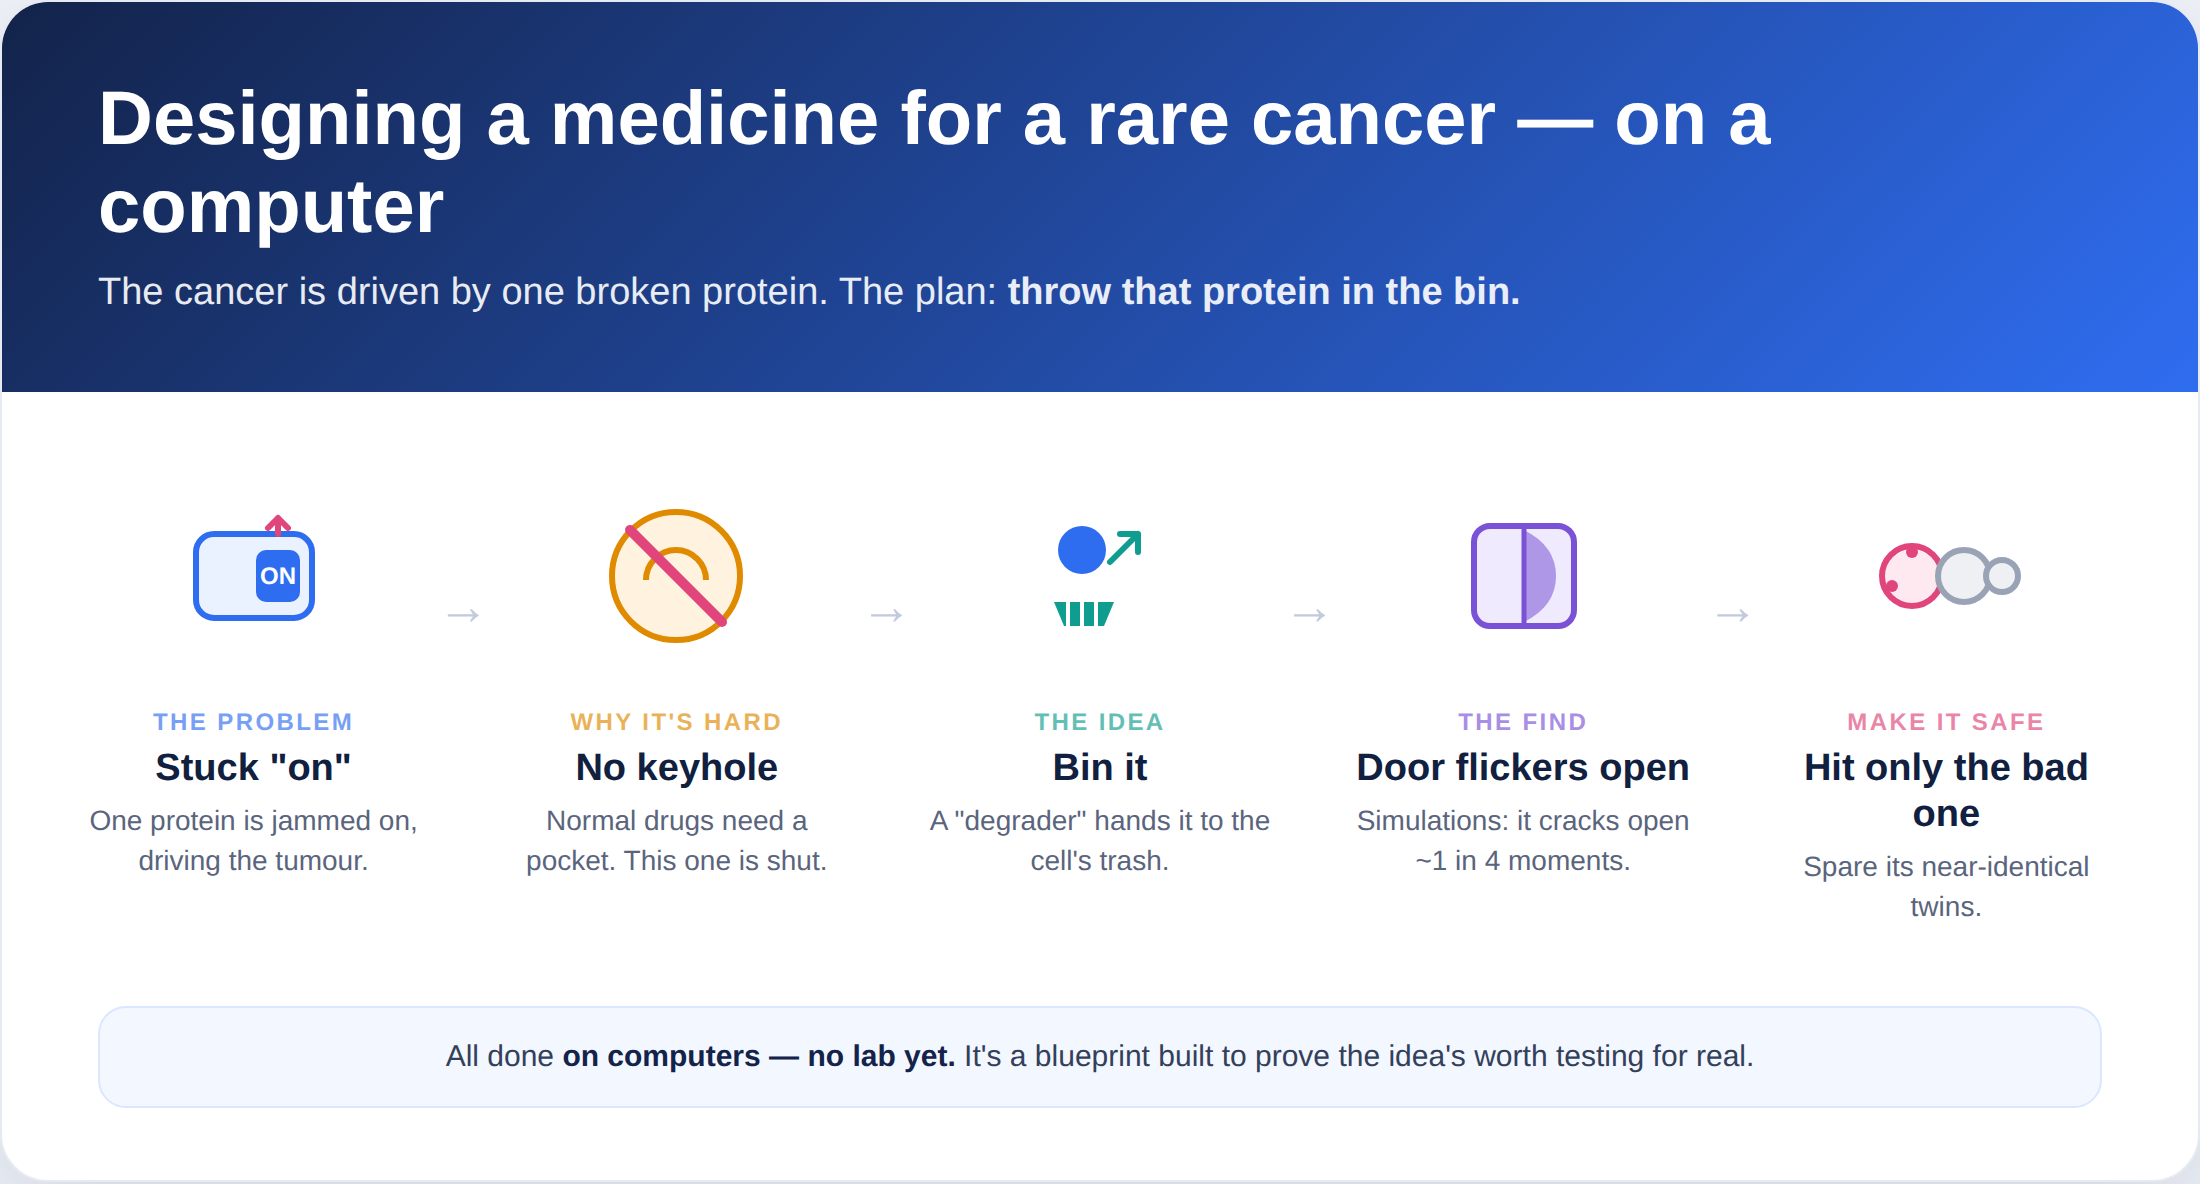
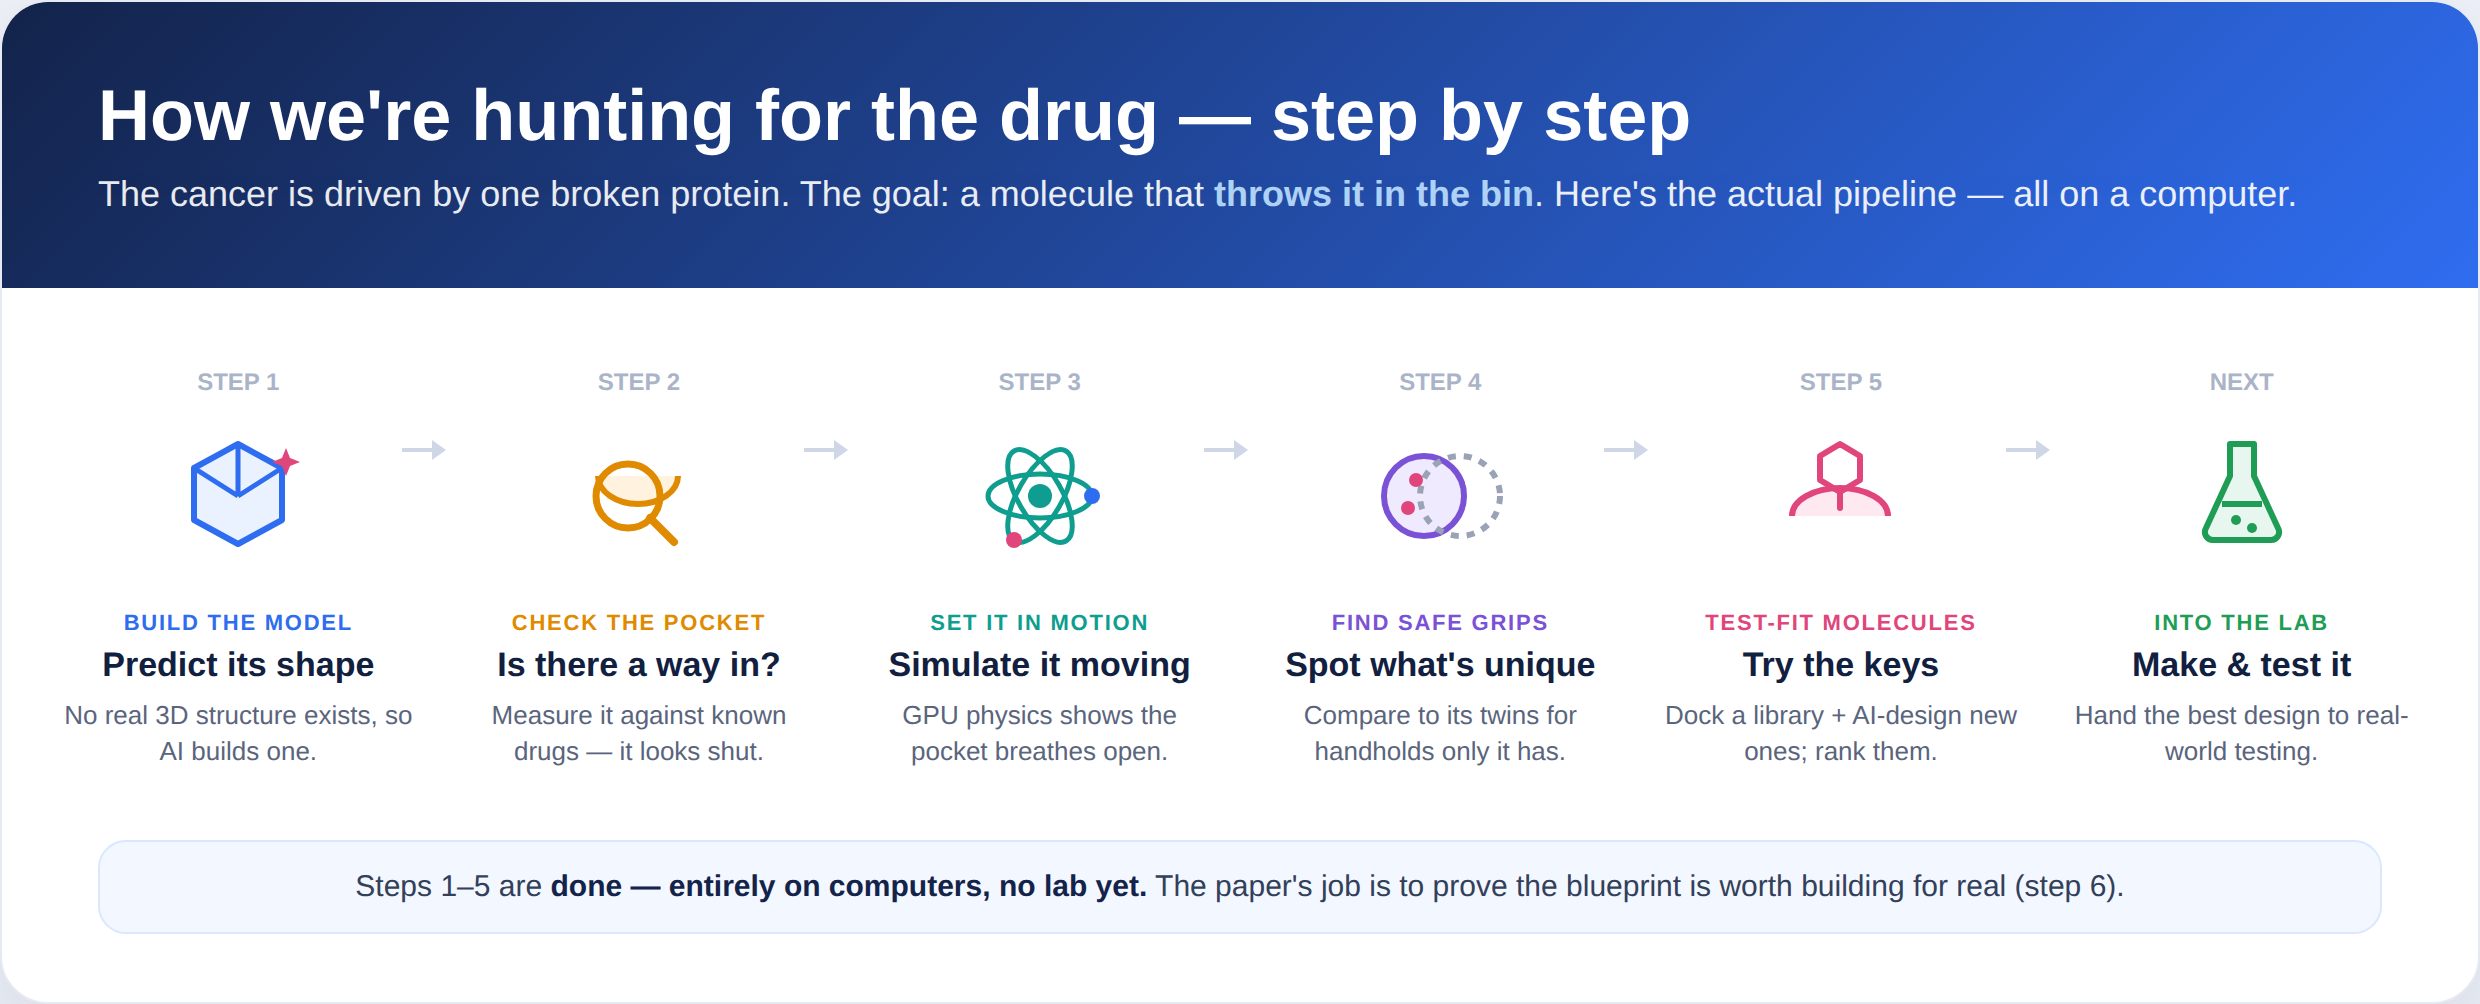
Reframe degrader explainer around the research pipeline steps
Claude-Session: https://claude.ai/code/session_01KgZWxTLkF6E4uQxj3QVCjY

diff --git a/research/manuscripts/nr4a3-degrader-explainer.html b/research/manuscripts/nr4a3-degrader-explainer.html
@@ -2,31 +2,35 @@
 <html lang="en">
 <head>
 <meta charset="utf-8">
-<title>The degrader idea, in one slide</title>
+<title>The degrader research, step by step</title>
 <style>
   :root{
     --ink:#11203f; --blue:#2f6df0; --teal:#0f9d8f;
-    --amber:#e08a00; --rose:#e0457b; --violet:#7a52d6; --line:#e6eaf2;
+    --amber:#e08a00; --rose:#e0457b; --violet:#7a52d6; --green:#1f9d55; --line:#e6eaf2;
   }
   *{box-sizing:border-box;margin:0;padding:0;}
   body{font-family:-apple-system,BlinkMacSystemFont,"Segoe UI",Roboto,Helvetica,Arial,sans-serif;
     background:#eef1f7; padding:30px; color:#11203f; -webkit-font-smoothing:antialiased;}
-  .slide{width:1100px;margin:0 auto;background:#fff;border-radius:24px;overflow:hidden;
+  .slide{width:1240px;margin:0 auto;background:#fff;border-radius:24px;overflow:hidden;
     box-shadow:0 18px 50px rgba(17,32,63,.12);border:1px solid var(--line);}
-  .hero{padding:38px 48px;background:linear-gradient(135deg,#13234a,#2f6df0);color:#fff;}
-  .hero h1{font-size:38px;font-weight:800;line-height:1.15;}
-  .hero p{font-size:19px;opacity:.9;margin-top:10px;}
-  .row{display:grid;grid-template-columns:repeat(5,1fr);gap:0;padding:14px 20px 6px;}
-  .step{padding:26px 16px;text-align:center;position:relative;}
-  .step:not(:last-child)::after{content:"→";position:absolute;right:-12px;top:78px;
-    font-size:26px;color:#c2cadb;font-weight:700;}
-  .art{height:104px;display:grid;place-items:center;margin-bottom:14px;}
-  .lbl{font-size:12px;letter-spacing:.1em;text-transform:uppercase;font-weight:800;opacity:.65;}
-  .step h3{font-size:19px;font-weight:800;margin:6px 0 4px;line-height:1.2;}
-  .step p{font-size:14px;color:#5a657d;line-height:1.4;}
+  .hero{padding:36px 48px;background:linear-gradient(135deg,#13234a,#2f6df0);color:#fff;}
+  .hero h1{font-size:36px;font-weight:800;line-height:1.15;}
+  .hero p{font-size:18px;opacity:.9;margin-top:9px;}
+  .hero b{color:#bfe0ff;}
+  .row{display:grid;grid-template-columns:repeat(6,1fr);padding:16px 18px 4px;}
+  .step{padding:24px 12px;text-align:center;position:relative;}
+  .step:not(:last-child)::after{content:"";position:absolute;right:0;top:64px;width:18px;height:2px;
+    background:#cfd7e6;}
+  .step:not(:last-child)::before{content:"";position:absolute;right:-4px;top:60px;
+    border-left:7px solid #cfd7e6;border-top:5px solid transparent;border-bottom:5px solid transparent;}
+  .stepnum{font-size:12px;font-weight:800;color:#aab4c8;}
+  .art{height:92px;display:grid;place-items:center;margin:4px 0 12px;}
+  .lbl{font-size:11px;letter-spacing:.08em;text-transform:uppercase;font-weight:800;}
+  .step h3{font-size:17px;font-weight:800;margin:5px 0 5px;line-height:1.2;}
+  .step p{font-size:13px;color:#5a657d;line-height:1.42;}
   .s1 .lbl{color:var(--blue);} .s2 .lbl{color:var(--amber);} .s3 .lbl{color:var(--teal);}
-  .s4 .lbl{color:var(--violet);} .s5 .lbl{color:var(--rose);}
-  .foot{margin:8px 48px 36px;padding:16px 20px;background:#f3f7ff;border:1px solid #dbe6ff;
+  .s4 .lbl{color:var(--violet);} .s5 .lbl{color:var(--rose);} .s6 .lbl{color:var(--green);}
+  .foot{margin:6px 48px 34px;padding:14px 20px;background:#f3f7ff;border:1px solid #dbe6ff;
     border-radius:14px;text-align:center;font-size:15px;color:#33405a;}
   .foot b{color:#13234a;}
 </style>
@@ -35,84 +39,109 @@
 <div class="slide">
 
   <div class="hero">
-    <h1>Designing a medicine for a rare cancer — on a computer</h1>
-    <p>The cancer is driven by one broken protein. The plan: <b>throw that protein in the bin.</b></p>
+    <h1>How we're hunting for the drug — step by step</h1>
+    <p>The cancer is driven by one broken protein. The goal: a molecule that <b>throws it in the bin</b>. Here's the actual pipeline — all on a computer.</p>
   </div>
 
   <div class="row">
 
+    <!-- 1 build model -->
     <div class="step s1">
+      <div class="stepnum">STEP 1</div>
       <div class="art">
-        <svg width="86" height="86" viewBox="0 0 86 86" fill="none">
-          <rect x="14" y="22" width="58" height="42" rx="9" fill="#eaf1ff" stroke="#2f6df0" stroke-width="3"/>
-          <rect x="44" y="30" width="22" height="26" rx="5" fill="#2f6df0"/>
-          <text x="55" y="47" font-size="12" font-weight="800" fill="#fff" text-anchor="middle">ON</text>
-          <path d="M55 22 v-8 M55 14 l-5 5 M55 14 l5 5" stroke="#e0457b" stroke-width="3" stroke-linecap="round"/>
+        <svg width="80" height="80" viewBox="0 0 80 80" fill="none">
+          <path d="M40 14 L62 26 V52 L40 64 L18 52 V26 Z" fill="#eaf1ff" stroke="#2f6df0" stroke-width="3" stroke-linejoin="round"/>
+          <path d="M40 14 V40 M40 40 L62 26 M40 40 L18 26" stroke="#2f6df0" stroke-width="2.5"/>
+          <path d="M64 16 l2 5 5 2 -5 2 -2 5 -2 -5 -5 -2 5 -2 z" fill="#e0457b"/>
         </svg>
       </div>
-      <div class="lbl">The problem</div>
-      <h3>Stuck "on"</h3>
-      <p>One protein is jammed on, driving the tumour.</p>
+      <div class="lbl">Build the model</div>
+      <h3>Predict its shape</h3>
+      <p>No real 3D structure exists, so AI builds one.</p>
     </div>
 
+    <!-- 2 check pocket -->
     <div class="step s2">
+      <div class="stepnum">STEP 2</div>
       <div class="art">
-        <svg width="86" height="86" viewBox="0 0 86 86" fill="none">
-          <circle cx="43" cy="43" r="32" fill="#fff3e0" stroke="#e08a00" stroke-width="3"/>
-          <path d="M28 45 a15 15 0 0 1 30 0" fill="none" stroke="#e08a00" stroke-width="3"/>
-          <path d="M20 20 L66 66" stroke="#e0457b" stroke-width="5" stroke-linecap="round"/>
+        <svg width="80" height="80" viewBox="0 0 80 80" fill="none">
+          <path d="M20 30 a20 14 0 0 0 40 0" fill="#fff3e0" stroke="#e08a00" stroke-width="3"/>
+          <circle cx="35" cy="40" r="16" fill="none" stroke="#e08a00" stroke-width="3.5"/>
+          <path d="M46 51 l12 12" stroke="#e08a00" stroke-width="4" stroke-linecap="round"/>
         </svg>
       </div>
-      <div class="lbl">Why it's hard</div>
-      <h3>No keyhole</h3>
-      <p>Normal drugs need a pocket. This one is shut.</p>
+      <div class="lbl">Check the pocket</div>
+      <h3>Is there a way in?</h3>
+      <p>Measure it against known drugs — it looks shut.</p>
     </div>
 
+    <!-- 3 simulate -->
     <div class="step s3">
+      <div class="stepnum">STEP 3</div>
       <div class="art">
-        <svg width="86" height="86" viewBox="0 0 86 86" fill="none">
-          <circle cx="34" cy="30" r="12" fill="#2f6df0"/>
-          <path d="M20 56 h30 l-5 12 h-20 z" fill="#0f9d8f"/>
-          <path d="M27 56 v12 M34 56 v12 M41 56 v12" stroke="#fff" stroke-width="2"/>
-          <path d="M48 36 L62 22 M62 22 h-9 M62 22 v9" stroke="#0f9d8f" stroke-width="3" fill="none" stroke-linecap="round"/>
+        <svg width="80" height="80" viewBox="0 0 80 80" fill="none">
+          <circle cx="40" cy="40" r="6" fill="#0f9d8f"/>
+          <ellipse cx="40" cy="40" rx="26" ry="11" fill="none" stroke="#0f9d8f" stroke-width="2.5"/>
+          <ellipse cx="40" cy="40" rx="26" ry="11" fill="none" stroke="#0f9d8f" stroke-width="2.5" transform="rotate(60 40 40)"/>
+          <ellipse cx="40" cy="40" rx="26" ry="11" fill="none" stroke="#0f9d8f" stroke-width="2.5" transform="rotate(120 40 40)"/>
+          <circle cx="66" cy="40" r="4" fill="#2f6df0"/><circle cx="27" cy="62" r="4" fill="#e0457b"/>
         </svg>
       </div>
-      <div class="lbl">The idea</div>
-      <h3>Bin it</h3>
-      <p>A "degrader" hands it to the cell's trash.</p>
+      <div class="lbl">Set it in motion</div>
+      <h3>Simulate it moving</h3>
+      <p>GPU physics shows the pocket breathes open.</p>
     </div>
 
+    <!-- 4 selectivity -->
     <div class="step s4">
+      <div class="stepnum">STEP 4</div>
       <div class="art">
-        <svg width="86" height="86" viewBox="0 0 86 86" fill="none">
-          <rect x="18" y="18" width="50" height="50" rx="8" fill="#f0eaff" stroke="#7a52d6" stroke-width="3"/>
-          <path d="M43 18 v50" stroke="#7a52d6" stroke-width="2.5"/>
-          <path d="M43 20 q16 8 16 23 q0 15 -16 23 z" fill="#7a52d6" opacity=".55"/>
+        <svg width="80" height="80" viewBox="0 0 80 80" fill="none">
+          <circle cx="32" cy="40" r="20" fill="#f0eaff" stroke="#7a52d6" stroke-width="3"/>
+          <circle cx="50" cy="40" r="20" fill="none" stroke="#9aa3b5" stroke-width="3" stroke-dasharray="4 4"/>
+          <circle cx="28" cy="32" r="3.5" fill="#e0457b"/><circle cx="24" cy="46" r="3.5" fill="#e0457b"/>
         </svg>
       </div>
-      <div class="lbl">The find</div>
-      <h3>Door flickers open</h3>
-      <p>Simulations: it cracks open ~1 in 4 moments.</p>
+      <div class="lbl">Find safe grips</div>
+      <h3>Spot what's unique</h3>
+      <p>Compare to its twins for handholds only it has.</p>
     </div>
 
+    <!-- 5 dock / design -->
     <div class="step s5">
+      <div class="stepnum">STEP 5</div>
       <div class="art">
-        <svg width="86" height="86" viewBox="0 0 86 86" fill="none">
-          <circle cx="26" cy="43" r="15" fill="#ffe9f1" stroke="#e0457b" stroke-width="3"/>
-          <circle cx="52" cy="43" r="13" fill="#eef0f4" stroke="#9aa3b5" stroke-width="3"/>
-          <circle cx="71" cy="43" r="8" fill="#eef0f4" stroke="#9aa3b5" stroke-width="3"/>
-          <circle cx="26" cy="31" r="3" fill="#e0457b"/><circle cx="16" cy="48" r="3" fill="#e0457b"/>
+        <svg width="80" height="80" viewBox="0 0 80 80" fill="none">
+          <path d="M16 50 a24 14 0 0 1 48 0" fill="#ffe9f1" stroke="#e0457b" stroke-width="3"/>
+          <path d="M40 14 l10 6 v12 l-10 6 -10 -6 v-12 z" fill="none" stroke="#e0457b" stroke-width="3" stroke-linejoin="round"/>
+          <path d="M40 38 v8" stroke="#e0457b" stroke-width="3" stroke-linecap="round"/>
         </svg>
       </div>
-      <div class="lbl">Make it safe</div>
-      <h3>Hit only the bad one</h3>
-      <p>Spare its near-identical twins.</p>
+      <div class="lbl">Test-fit molecules</div>
+      <h3>Try the keys</h3>
+      <p>Dock a library + AI-design new ones; rank them.</p>
+    </div>
+
+    <!-- 6 next -->
+    <div class="step s6">
+      <div class="stepnum">NEXT</div>
+      <div class="art">
+        <svg width="80" height="80" viewBox="0 0 80 80" fill="none">
+          <path d="M34 14 h12 v16 l12 26 a4 4 0 0 1 -3.6 6 H25.6 a4 4 0 0 1 -3.6 -6 l12 -26 z"
+                fill="#e7f6ee" stroke="#1f9d55" stroke-width="3" stroke-linejoin="round"/>
+          <path d="M30 44 h20" stroke="#1f9d55" stroke-width="3"/>
+          <circle cx="37" cy="52" r="2.5" fill="#1f9d55"/><circle cx="45" cy="56" r="2.5" fill="#1f9d55"/>
+        </svg>
+      </div>
+      <div class="lbl">Into the lab</div>
+      <h3>Make &amp; test it</h3>
+      <p>Hand the best design to real-world testing.</p>
     </div>
 
   </div>
 
   <div class="foot">
-    All done <b>on computers — no lab yet.</b> It's a blueprint built to prove the idea's worth testing for real.
+    Steps 1–5 are <b>done — entirely on computers, no lab yet.</b> The paper's job is to prove the blueprint is worth building for real (step 6).
   </div>
 
 </div>